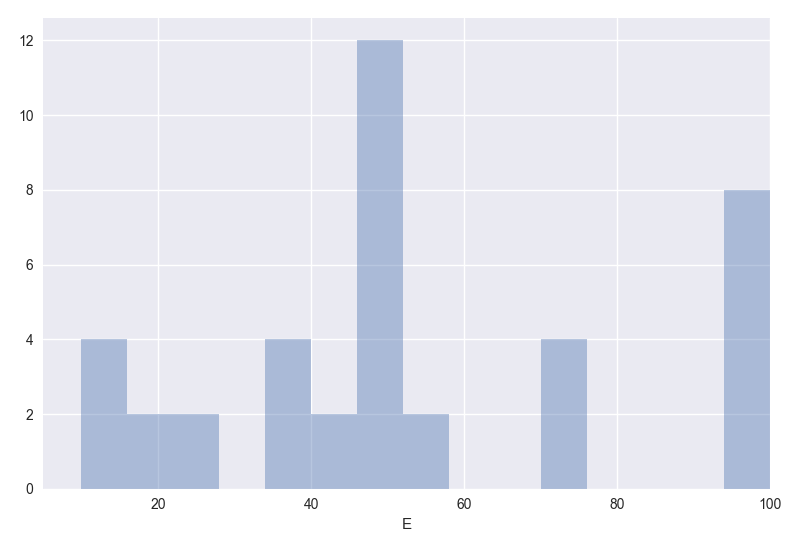
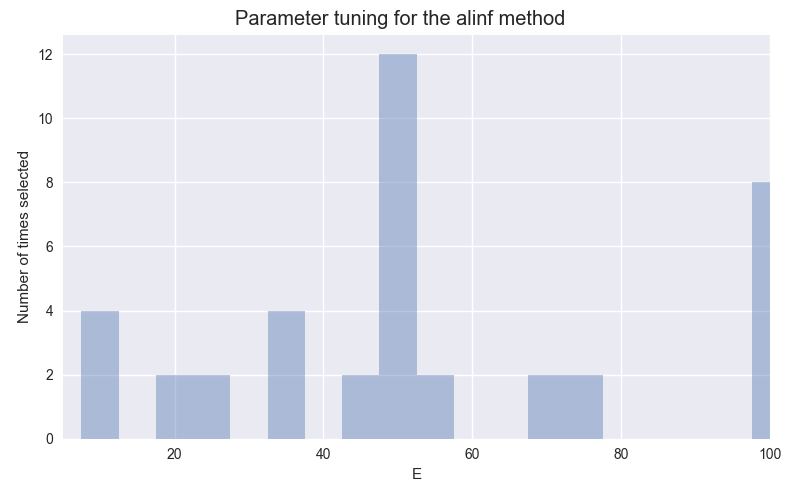
Tuning plots refined

diff --git a/python/plotting_utils.py b/python/plotting_utils.py
@@ -3,6 +3,7 @@ import matplotlib.pyplot as plt
 import numpy as np
 import pandas as pd
 import itertools
+import math
 from commons import full_method_list as method_order, glm_l1_ratios, grace_lambda1_values, grace_lambda2_values, \
     gblasso_gamma_values, gblasso_lambda_values, linf_c_values, alinf_e_values, cm_vote_thresholds
 
@@ -112,42 +113,67 @@ def plot_parameter_tuning(results_file_urls=["results/p550.csv"]):
 
     for model, params in parsed_params.iteritems():
         if len(params) == 1:
-            plt.figure()
-            ax = sns.distplot(params.values()[0], bins=15, kde=False)
+            fig = plt.figure(figsize=(8, 5))
+            ax = plt.gca()
             if model in xticks.keys():
                 ax.set_xticks(xticks[model])
+                bins = [xticks[model][0]] + [(j + i) / 2 for i, j in zip(xticks[model][:-1], xticks[model][1:])] + [
+                    xticks[model][-1]]
+            else:
+                bins = 15
             if model in xlim.keys():
                 ax.set_xlim(xlim[model])
+            sns.distplot(params.values()[0], bins=bins, kde=False, ax=ax)
             ax.set_xscale(xscale[model])
             ax.set_xlabel(xlabel[model])
-            plt.tight_layout()
-            plt.savefig("figures/tuning/%s.png" % model)
-            plt.clf()
+            ax.set_ylabel("Number of times selected")
+
         elif len(params) == 2:
-            plt.figure()
             count = pd.DataFrame(params).groupby([params.keys()[0], params.keys()[1]]).size()
             data = pd.DataFrame({'count': count}).reset_index()
 
-            g = sns.jointplot(x=data.columns[0], y=data.columns[1], data=data, xlim=xlim[model], ylim=ylim[model],
-                              stat_func=None)
+            g = sns.JointGrid(x=data.columns[0], y=data.columns[1], data=data)
             ax = g.ax_joint
-            plt.sca(ax)
-            plt.scatter(x=data.iloc[:, 0], y=data.iloc[:, 1], s=data.iloc[:, 2] * 100, c=data.iloc[:, 2], cmap="Blues",
-                        edgecolors="Blue")
-
-            ax.set_xscale(xscale[model])
-            ax.set_yscale(yscale[model])
-            g.ax_marg_x.set_xscale(xscale[model])
-            g.ax_marg_y.set_yscale(yscale[model])
-
+            ax.set_xlim(xlim[model])
+            ax.set_ylim(ylim[model])
             ax.set_xticks(xticks[model])
             ax.set_xlabel(xlabel[model])
             ax.set_yticks(yticks[model])
             ax.set_ylabel(ylabel[model])
 
-            plt.tight_layout()
-            plt.savefig("figures/tuning/%s.png" % model)
-            plt.clf()
+            if xscale[model] == "log":
+                ax.set_xscale(xscale[model])
+                g.ax_marg_x.set_xscale(xscale[model])
+                xbins = np.logspace(math.log10(xticks[model][0]), math.log10(xticks[model][-1]),
+                                    2 * len(xticks[model]))
+            else:
+                xbins = [xticks[model][0]] + [(j + i) / 2 for i, j in zip(xticks[model][:-1], xticks[model][1:])] + [
+                    xticks[model][-1]]
+
+            if yscale[model] == "log":
+                ax.set_yscale(yscale[model])
+                g.ax_marg_y.set_yscale(yscale[model])
+                ybins = np.logspace(math.log10(yticks[model][0]), math.log10(yticks[model][-1]),
+                                    2 * len(yticks[model]))
+            else:
+                ybins = [yticks[model][0]] + [(j + i) / 2 for i, j in zip(yticks[model][:-1], yticks[model][1:])] + [
+                    yticks[model][-1]]
+
+            g.ax_marg_x.hist(data.iloc[:, 0], color="b", alpha=.6, bins=xbins)
+            g.ax_marg_y.hist(data.iloc[:, 1], color="b", alpha=.6, orientation="horizontal", bins=ybins)
+
+            plt.sca(ax)
+            plt.scatter(x=data.iloc[:, 0], y=data.iloc[:, 1], s=data.iloc[:, 2] * 100, c=data.iloc[:, 2], cmap="Blues",
+                        edgecolors="Blue")
+
+        else:
+            continue
+            # No tuning plots for the TLP methods
+
+        plt.suptitle("Parameter tuning for the %s method" % model)
+        plt.tight_layout()
+        plt.subplots_adjust(top=0.93)
+        plt.savefig("figures/tuning/%s.png" % model)
 
 
 xlabel = {

diff --git a/python/main.py b/python/main.py
@@ -17,6 +17,9 @@ n_regulated_genes_per_trans_factor = 10
 p = n_trans_factors * (n_regulated_genes_per_trans_factor + 1)
 relevant_trans_factor_groups = [1, 2, 3, 4, 5]
 
+setups = None
+
+
 # setups = batch_generate_setups(n_regulated_genes_per_trans_factor=n_regulated_genes_per_trans_factor,
 #                                n_trans_factors=n_trans_factors, load_dump=True,
 #                                n_relevant_trans_factor_groups=relevant_trans_factor_groups,
@@ -62,7 +65,7 @@ def fit_optimal_parameter_models_on_real_data(methods=real_data_methods, load_du
 # plot_summary_comparison(summary_urls={
 #     "CV of MSE tuning": "results/p550_summary.csv",
 #     "Orchestrated tuning": "results/p550_summary.csv"})
-# plot_parameter_tuning(results_file_urls=["results/p550.csv", "results/p550.csv"])
+plot_parameter_tuning(results_file_urls=["results/p550.csv", "results/p550.csv"])
 
 # fit_optimal_parameter_models_on_real_data(methods=["lasso", "enet", "grace"], load_dump=True)
 print("Total time elapsed: %.0f seconds" % time.clock())
